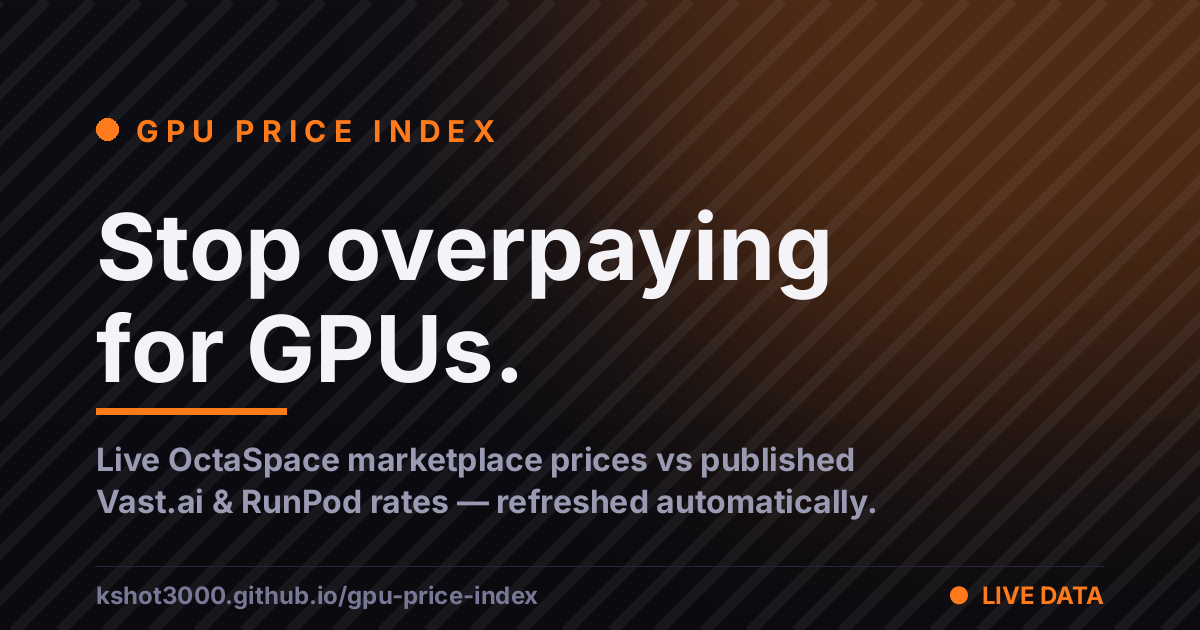
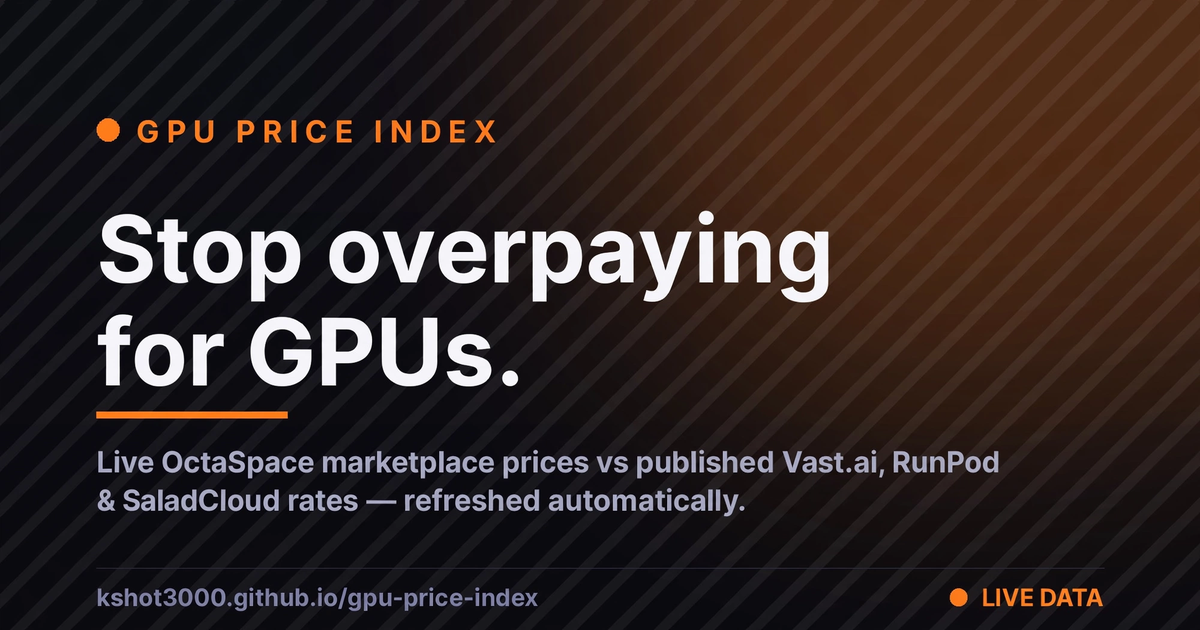
Add SaladCloud as a fourth competitor column
Published 'from' rates on SaladCloud's Lowest priority tier (captured
2026-09-29 from salad.com/salad-container-engine-community/): RTX 3090
$0.09, 4090 $0.16, 5080 $0.15, 5090 $0.25/hr. Only those four GPUs
publish list rates; other cells honestly show no figure. Tier labeled in
the header, sources table, calculator, and methodology so the
preemptible lowest-priority tier can't be misread as standard pricing.

Also: README date fixes (Vast.ai pull 2026-09-29 ~14:00 UTC, RunPod
Secure re-verified 2026-09-29), regenerate og-card.png with SaladCloud
in the subhead, bump data + app.js cache keys (?v=8).

diff --git a/index.html b/index.html
@@ -3,21 +3,22 @@
 <head>
 <meta charset="UTF-8">
 <meta name="viewport" content="width=device-width, initial-scale=1.0">
-<title>GPU Price Index — OctaSpace vs Vast.ai vs RunPod (live prices)</title>
-<meta name="description" content="Live GPU rental prices from the OctaSpace marketplace, compared against published Vast.ai and RunPod rates. See exactly how much you save.">
+<title>GPU Price Index — OctaSpace vs Vast.ai, RunPod & SaladCloud (live prices)</title>
+<meta name="description" content="Live GPU rental prices from the OctaSpace marketplace, compared against published Vast.ai, RunPod, and SaladCloud rates. See exactly how much you save.">
 <meta name="theme-color" content="#0a0a0f">
 <meta property="og:title" content="GPU Price Index — stop overpaying for GPUs">
-<meta property="og:description" content="Live OctaSpace rental prices vs Vast.ai and RunPod. The data, refreshed automatically.">
+<meta property="og:description" content="Live OctaSpace rental prices vs Vast.ai, RunPod & SaladCloud. The data, refreshed automatically.">
 <meta property="og:type" content="website">
 <meta property="og:site_name" content="GPU Price Index">
 <meta property="og:url" content="https://kshot3000.github.io/gpu-price-index/">
-<meta property="og:image" content="https://kshot3000.github.io/gpu-price-index/og-card.png?v=1">
+<meta property="og:image" content="https://kshot3000.github.io/gpu-price-index/og-card.png?v=2">
 <meta property="og:image:width" content="1200">
 <meta property="og:image:height" content="630">
-<meta property="og:image:alt" content="GPU Price Index — stop overpaying for GPUs. Live OctaSpace marketplace prices vs published Vast.ai and RunPod rates.">
+<meta property="og:image:alt" content="GPU Price Index — stop overpaying for GPUs. Live OctaSpace marketplace prices vs published Vast.ai, RunPod & SaladCloud rates.">
 <meta name="twitter:card" content="summary_large_image">
 <meta name="twitter:title" content="GPU Price Index — stop overpaying for GPUs">
-<meta name="twitter:description" content="Live OctaSpace rental prices vs Vast.ai and RunPod. The data, refreshed automatically.">
+<meta name="twitter:description" content="Live OctaSpace rental prices vs Vast.ai, RunPod & SaladCloud. The data, refreshed automatically.">
+<meta name="twitter:image" content="https://kshot3000.github.io/gpu-price-index/og-card.png?v=2">
 <meta name="twitter:image" content="https://kshot3000.github.io/gpu-price-index/og-card.png?v=1">
 <link rel="preconnect" href="https://fonts.googleapis.com">
 <link href="https://fonts.googleapis.com/css2?family=Inter:wght@400;500;600;700;800&display=swap" rel="stylesheet">
@@ -40,7 +41,7 @@
 
   <section class="hero">
     <h1>Stop overpaying <span class="hl">for GPUs.</span></h1>
-    <p>Live rental prices from the OctaSpace marketplace, checked against published Vast.ai and RunPod rates. No estimates, no cherry-picking — the methodology is at the bottom.</p>
+    <p>Live rental prices from the OctaSpace marketplace, checked against published Vast.ai, RunPod, and SaladCloud rates. No estimates, no cherry-picking — the methodology is at the bottom.</p>
     <div class="cta-row">
       <a class="btn btn-primary" href="https://cube.octa.computer/marketplace/compute" target="_blank" rel="noopener">Rent on OctaSpace →</a>
       <button class="btn btn-ghost" id="refreshBtn">Refresh live prices</button>
@@ -61,7 +62,7 @@
       <table id="priceTable"></table>
     </div>
     <div class="chips" id="extraChips"></div>
-    <p style="color:var(--muted);font-size:13px;margin-top:14px">A — in a competitor column means no published list price was available for that GPU — the OctaSpace live average stands on its own. RunPod publishes no list prices for the RTX 4070, 4080, 5070, or 5080 (checked 2026-09-28 on runpod.io/pricing), so those cells stay empty; Vast.ai spot-tier 'from' prices are filled for all four.</p>
+    <p style="color:var(--muted);font-size:13px;margin-top:14px">A — in a competitor column means no published list price was available for that GPU — the OctaSpace live average stands on its own. RunPod publishes no list prices for the RTX 4070, 4080, 5070, or 5080 (checked 2026-09-28 on runpod.io/pricing); SaladCloud's pricing page publishes list rates for only four GPUs (RTX 3090, 4090, 5080, 5090 — 'from' rates, Lowest priority tier), so the rest stay empty; Vast.ai spot-tier 'from' prices are filled for all ten.</p>
   </section>
 
   <section class="block">
@@ -111,6 +112,7 @@
       <ul>
         <li>Platform fees, storage, and egress — excluded from <em>all</em> columns equally.</li>
         <li>Vast.ai's column shows the cheapest "from" offers on its <b>spot (interruptible) tier</b> — the lowest prices Vast.ai publishes, so this comparison gives Vast.ai its best case. Spot instances can be preempted; standard on-demand rates run higher. OctaSpace rentals bill per minute and are not preempted.</li>
+        <li>SaladCloud's column shows official "from" rates on the <b>Lowest priority tier</b> — the cheapest of four tiers (High, Medium, Low, Lowest); lower tiers can be preempted by higher-priority workloads, so this gives SaladCloud its best case too. Per-second billing while instances run.</li>
         <li>OctaSpace's A100 row is the 40 GB SXM4 variant; competitor A100 rows are 80 GB cards.</li>
       </ul>
     </div>
@@ -121,7 +123,7 @@
 
 <footer>
   <div class="wrap">
-    <p><b style="color:var(--text)">GPU Price Index</b> is an independent community project. Not affiliated with OctaSpace, Vast.ai, or RunPod. Prices are references, not quotes — always confirm on the provider's site before renting.</p>
+    <p><b style="color:var(--text)">GPU Price Index</b> is an independent community project. Not affiliated with OctaSpace, Vast.ai, RunPod, or SaladCloud. Prices are references, not quotes — always confirm on the provider's site before renting.</p>
     <div class="attrs">
       <span>Built by <a href="https://github.com/Kshot3000" target="_blank" rel="noopener">Kshot3000</a></span>
       <span><a href="https://x.com/kshot9000" target="_blank" rel="noopener">@kshot9000</a></span>
@@ -130,6 +132,6 @@
   </div>
 </footer>
 
-<script src="js/app.js?v=7"></script>
+<script src="js/app.js?v=8"></script>
 </body>
 </html>

diff --git a/js/app.js b/js/app.js
@@ -19,7 +19,7 @@ let octaIsLive = false;
 
 async function loadData() {
   try {
-    const res = await fetch("data/competitors.json?v=7");
+    const res = await fetch("data/competitors.json?v=8");
     if (!res.ok) throw new Error("data " + res.status);
     DATA = await res.json();
   } catch (e) {
@@ -115,6 +115,7 @@ function renderTable() {
       <th>GPU</th>
       <th>OctaSpace<span class="sub">live avg asking price</span></th>
       <th>Vast.ai<span class="sub">cheapest 'from' offer · spot tier · ${esc(P.vast.updated)}</span></th>
+      <th>SaladCloud<span class="sub">'from' rate · Lowest priority tier · ${esc(P.saladcloud.updated)}</span></th>
       <th>RunPod<span class="sub">Community · ${esc(P.runpod_community.updated)}</span></th>
       <th>RunPod<span class="sub">Secure · ${esc(P.runpod_secure.updated)}</span></th>
       <th>You save<span class="sub">vs RunPod Secure</span></th>
@@ -141,6 +142,7 @@ function renderTable() {
       <td class="gpu-name">${esc(g.name)}<span class="vram">${esc(g.vram)}${vramNote}</span></td>
       <td class="octa-cell">${priceCell(o)}${verifyBadge}</td>
       <td>${comp("vast", true)}</td>
+      <td>${comp("saladcloud", true)}</td>
       <td>${comp("runpod_community")}</td>
       <td>${comp("runpod_secure")}</td>
       <td>${saveCell}</td>
@@ -179,6 +181,7 @@ function renderCalc(reset) {
   const rows = [
     { name: "OctaSpace", sub: octaIsLive ? "live" : "snapshot", price: o ? o.avg_price : null, hot: true },
     { name: "Vast.ai", sub: "from", price: g.prices.vast ?? null },
+    { name: "SaladCloud", sub: "from · Lowest priority", price: g.prices.saladcloud ?? null },
     { name: "RunPod Community", sub: "", price: g.prices.runpod_community ?? null },
     { name: "RunPod Secure", sub: "", price: g.prices.runpod_secure ?? null },
   ].filter((r) => r.price !== null);
@@ -210,7 +213,7 @@ function renderCalc(reset) {
 function renderSources() {
   const P = DATA.providers;
   $("#srcTable").innerHTML = `<thead><tr><th>Column</th><th>Type</th><th>As of</th><th>Source</th></tr></thead><tbody>
-    ${["octaspace", "vast", "runpod_community", "runpod_secure"].map((k) => {
+    ${["octaspace", "vast", "saladcloud", "runpod_community", "runpod_secure"].map((k) => {
       const p = P[k];
       const tier = p.tier ? ` (${esc(p.tier)})` : "";
       const note = p.note ? `<div class="src-note">${esc(p.note)}</div>` : "";

diff --git a/README.md b/README.md
@@ -3,8 +3,9 @@
 **Live:** https://kshot3000.github.io/gpu-price-index/
 
 Stop overpaying for GPUs. Live rental prices from the [OctaSpace](https://octa.space) marketplace,
-compared side-by-side against published [Vast.ai](https://vast.ai) and [RunPod](https://www.runpod.io/pricing)
-rates — so you can see exactly how much you save.
+compared side-by-side against published [Vast.ai](https://vast.ai), [RunPod](https://www.runpod.io/pricing),
+and [SaladCloud](https://salad.com/salad-container-engine-community/) rates — so you can see exactly
+how much you save.
 
 Built by [@kshot9000](https://x.com/kshot9000).
 
@@ -15,10 +16,13 @@ Built by [@kshot9000](https://x.com/kshot9000).
   5 minutes. A baked `data/competitors.json` snapshot is the fallback if the API is unreachable.
 - **Competitor columns — dated snapshots.** Vast.ai figures are the cheapest "from" offers
   (spot tier) from the [hourly-refreshed madebyagents.com GPU rental index](https://www.madebyagents.com/hardware/gpu-rental-prices)
-  (pulled 2026-09-28 21:50 UTC; the marketplace moves hourly, so treat these as directional), and RunPod
-  (Community + Secure Cloud official rates from [runpod.io/pricing](https://www.runpod.io/pricing):
-  Secure re-verified 2026-09-28 — all six tracked GPUs unchanged; Community snapshot from
-  2026-09-13). Each is labeled with the date it was verified and a link to its source.
+  (pulled 2026-09-29 ~14:00 UTC; the marketplace moves hourly, so treat these as directional),
+  RunPod (Community + Secure Cloud official rates from [runpod.io/pricing](https://www.runpod.io/pricing):
+  Secure re-verified 2026-09-29 — all six tracked GPUs unchanged; Community snapshot from
+  2026-09-13), and SaladCloud (official "from" rates on the Lowest priority tier, from
+  [salad.com Community Cloud pricing](https://salad.com/salad-container-engine-community/) —
+  captured 2026-09-29; only the RTX 3090, 4090, 5080, and 5090 publish list rates there).
+  Each is labeled with the date it was verified and a link to its source.
   They do not move in real time — hover any badge for the caveats.
 - **Monthly cost calculator.** Pick a GPU and your daily usage to compare the bill across platforms.
 - **Savings math is honest.** If OctaSpace loses on a GPU, the page shows negative savings instead
@@ -34,12 +38,13 @@ The averages are real marketplace data, which means thin or weird data happens. 
 
 Competitor methodology in full: OctaSpace prices are live averages of current asking prices,
 refreshed in your browser. Competitor prices are verified on the dates shown; "from" prices are
-the cheapest offer found (Vast.ai = spot tier). Platform fees, storage, and egress are excluded
+the cheapest offer found (Vast.ai = spot tier; SaladCloud = Lowest priority tier). Platform fees, storage, and egress are excluded
 from all columns. Exceptions: the A100 Vast.ai cell ($0.75) retains a 2026-09-27 snapshot from
 aitooldiscovery.com — the 2026-09-28 refresh listed only 80GB A100 variants, which do not match
 this row's 40GB SXM4 SKU, so no figure was swapped in. RunPod has no published Secure/Community
 price for the RTX 4070/4080/5070/5080 (checked 2026-09-28 on runpod.io/pricing), so those cells
-honestly show no figure.
+honestly show no figure. SaladCloud's pricing page publishes list rates for only four GPUs
+(3090, 4090, 5080, 5090), so its other cells show no figure.
 
 ## Run it locally
 
